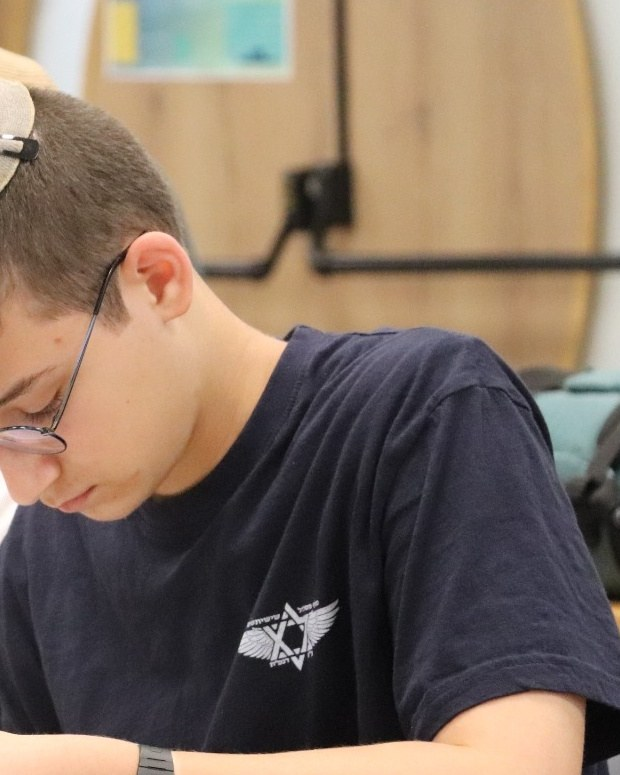
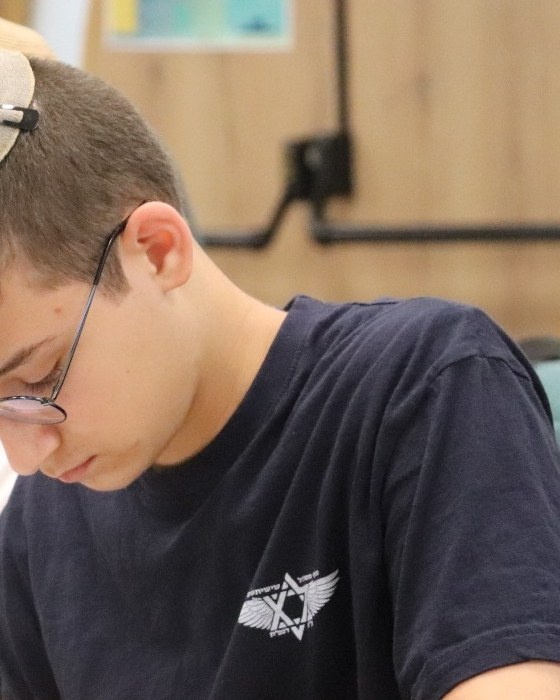
boy photo: tighter deterministic crop (macro on face+torso, face fully in frame within source limits)

diff --git a/quotes.html b/quotes.html
@@ -165,7 +165,7 @@
         </article>
 
         <article class="q-card wide">
-        <img class="q-photo q-photo-boy" src="./assets/marathon-boy-crop.jpg?v=1" alt="נער שהשתתף במרתון הלימוד" loading="lazy">
+        <img class="q-photo q-photo-boy" src="./assets/marathon-boy-crop.jpg?v=2" alt="נער שהשתתף במרתון הלימוד" loading="lazy">
           <p class="q-text">לפעמים יש לנו ציפיות נמוכות מעצמנו, בכל התחומים. למדתי פה לשאוף גבוה וקיבלתי שיעור ענק, גם בגמרא אבל גם על עצמי.</p>
           <p class="q-name">נער שהשתתף במרתון הלימוד</p>
           <p class="q-role">מסיים מסכת תענית ביום אחד, פתח תקווה</p>
